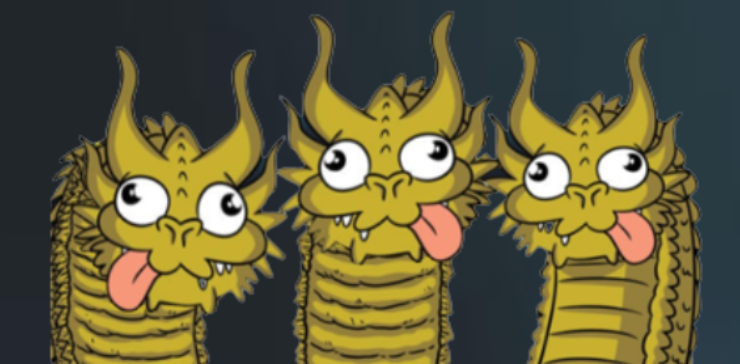
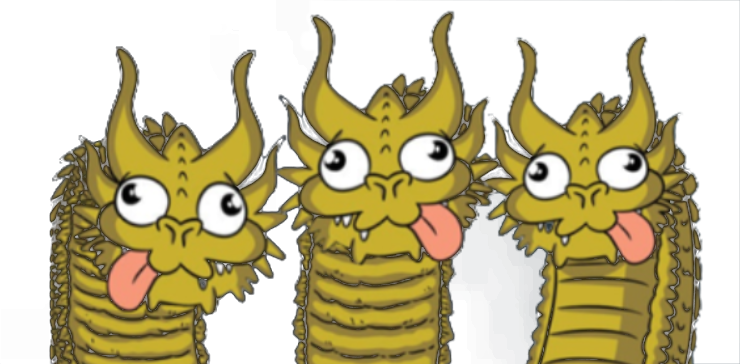
style: move progress bar below background image and update version to 0.4.2

diff --git a/src/sidepanel/index.html b/src/sidepanel/index.html
@@ -7,23 +7,33 @@
     <link rel="stylesheet" href="./styles.css">
   </head>
   <body>
+<!doctype html>
+<html lang="zh-Hant">
+  <head>
+    <meta charset="utf-8">
+    <meta name="viewport" content="width=device-width, initial-scale=1">
+    <title>LLMeeting</title>
+    <link rel="stylesheet" href="./styles.css">
+  </head>
+  <body>
     <main class="shell">
       <header class="topbar">
         <div>
           <div class="brand-row">
             <h1>LLMeeting</h1>
             <span id="planBadge" class="plan-badge">Free</span>
-            <span class="version-badge">v0.4.1</span>
+            <span class="version-badge">v0.4.2</span>
           </div>
           <p id="statusText">等待開始</p>
         </div>
         <button id="resetButton" type="button" title="重置">Reset</button>
       </header>
 
-      <!-- 狀態進度條 -->
-      <div id="progressContainer" class="progress-container">
-        <div id="progressBar" class="progress-bar" style="width: 0%"></div>
-      </div>
+      <div class="main-content">
+        <!-- 狀態進度條 -->
+        <div id="progressContainer" class="progress-container">
+          <div id="progressBar" class="progress-bar" style="width: 0%"></div>
+        </div>
 
       <form id="debateForm" class="composer">
         <label for="questionInput" class="sr-only">問題</label>
@@ -210,6 +220,7 @@
         <summary>診斷資訊</summary>
         <pre id="diagnosticsOutput">尚未開始</pre>
       </details>
+      </div>
     </main>
     <script type="module" src="app.js"></script>
   </body>

diff --git a/src/sidepanel/styles.css b/src/sidepanel/styles.css
@@ -141,7 +141,11 @@ body {
   transform: translateY(-1px);
 }
 
-/* 進度條容器 */
+.main-content {
+  margin-top: 140px; /* 推下來留給背景圖空間 */
+}
+
+/* 狀態進度條 */
 .progress-container {
   width: 100%;
   height: 4px;
@@ -177,7 +181,6 @@ body {
   border: 1px solid var(--border-color);
   border-radius: 16px;
   padding: 16px;
-  margin-top: 140px; /* 推下來留給背景圖空間 */
   box-shadow: 0 8px 32px rgba(0, 0, 0, 0.2);
   backdrop-filter: blur(16px);
 }